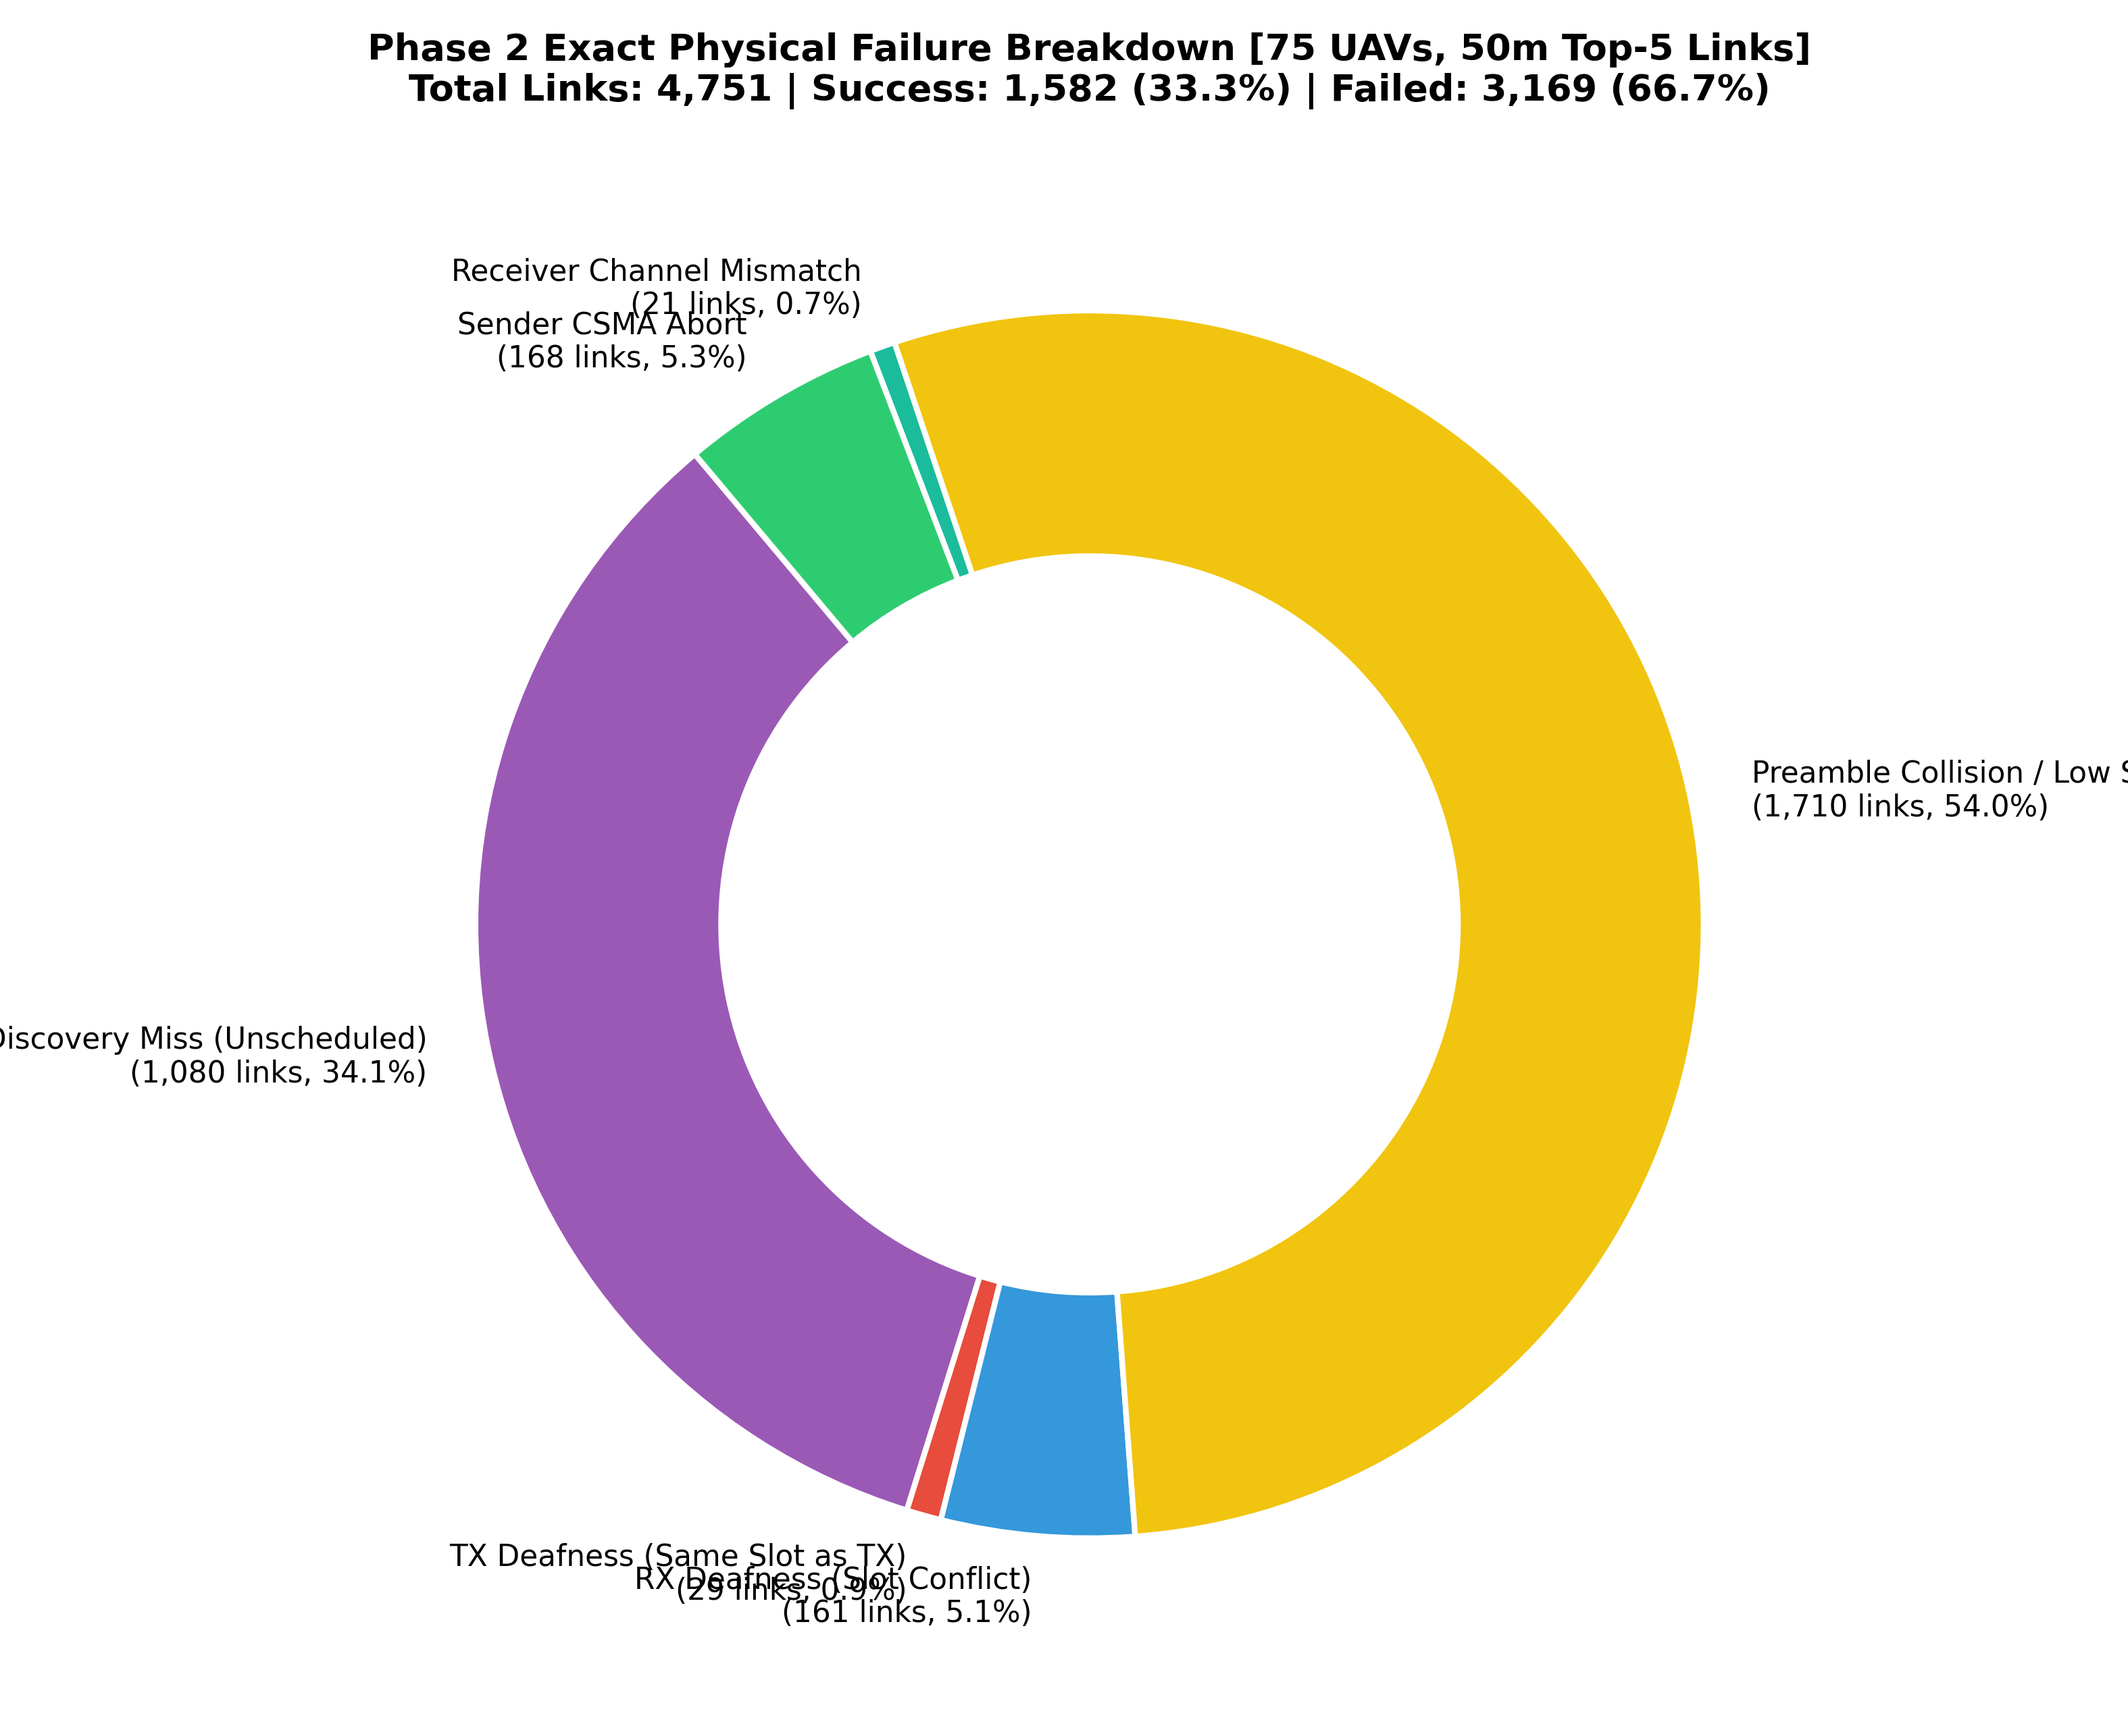
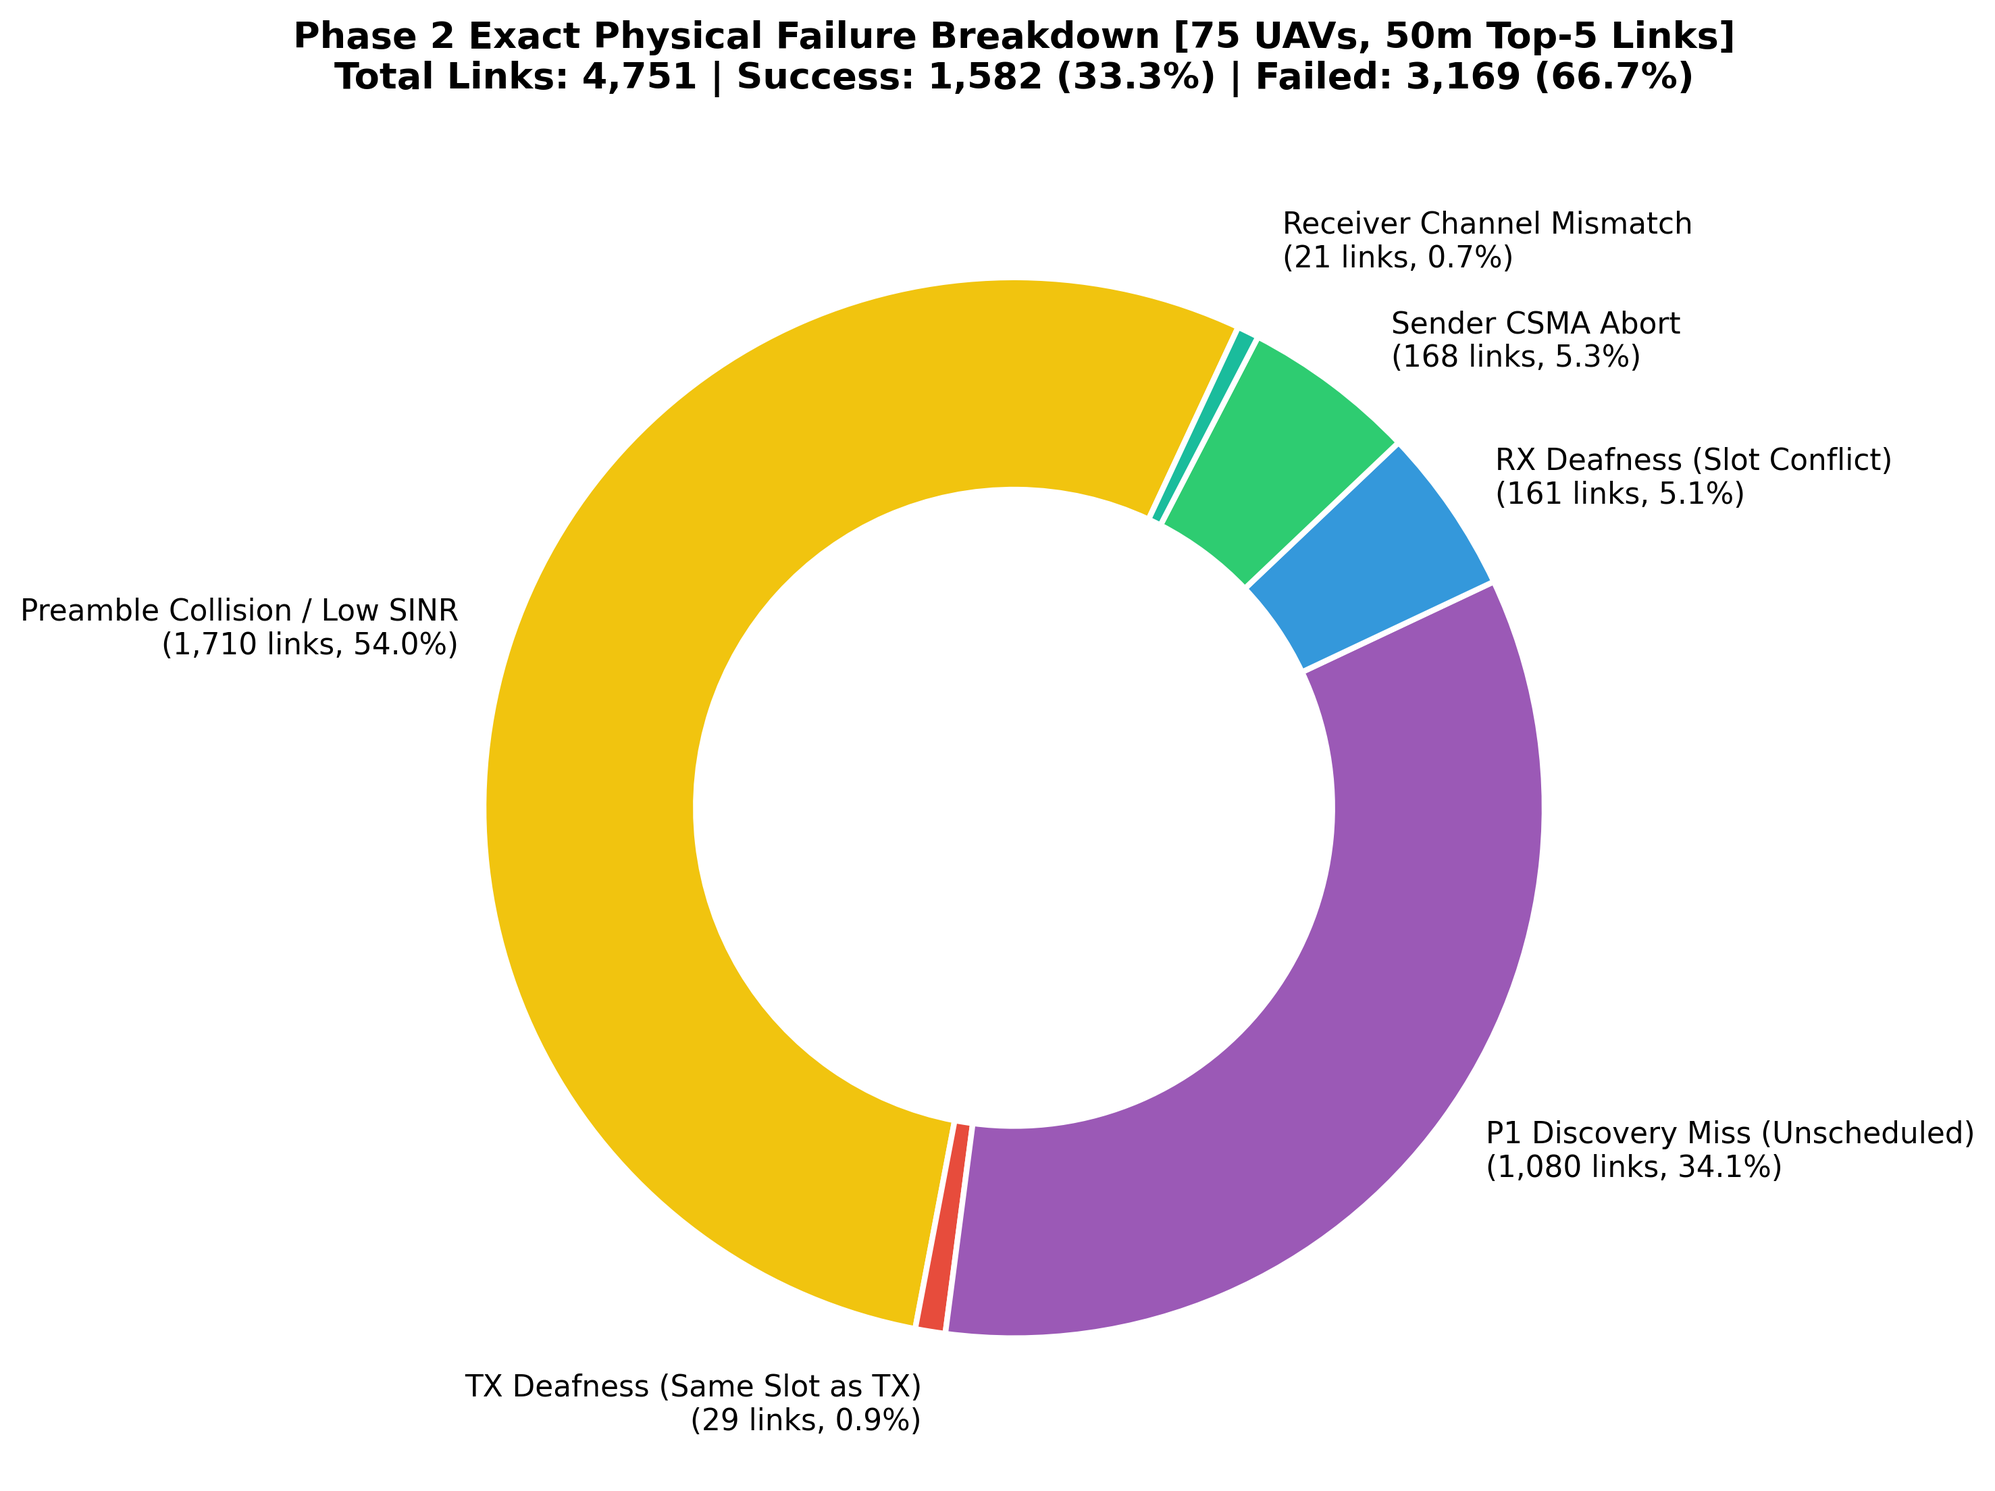
fix(p2): optimize donut label spacing and prevent overlap

Changed region(s): [[0.0, 0.125, 1.0, 0.9688], [0.1557, 0.0, 0.872, 0.0625], [0.9032, 0.2812, 0.9343, 0.3125]]

diff --git a/run_p2_exact_analysis.py b/run_p2_exact_analysis.py
@@ -127,14 +127,14 @@ try:
     # 1. Donut Chart for Failures (Exact Original Style with Direct Slice Labels)
     # Order structured so large slices insulate smaller slices, preventing text overlap
     labels_map = {
-        "P1_DISCOVERY_MISS": "P1 Discovery Miss (Unscheduled)",
-        "TX_DEAFNESS_SAME_SLOT": "TX Deafness (Same Slot as TX)",
-        "RX_DEAFNESS_SLOT_CONFLICT": "RX Deafness (Slot Conflict)",
-        "PAYLOAD_INTERFERENCE_DROP": "Payload Interference Corruption",
         "PREAMBLE_COLLISION_OR_LOW_SINR": "Preamble Collision / Low SINR",
+        "TX_DEAFNESS_SAME_SLOT": "TX Deafness (Same Slot as TX)",
+        "P1_DISCOVERY_MISS": "P1 Discovery Miss (Unscheduled)",
+        "RX_DEAFNESS_SLOT_CONFLICT": "RX Deafness (Slot Conflict)",
+        "SENDER_CSMA_ABORT": "Sender CSMA Abort",
         "RECEIVER_CHANNEL_MISMATCH": "Receiver Channel Mismatch",
-        "RADIO_TURNAROUND_BUSY": "Radio Turnaround / Transient Busy",
-        "SENDER_CSMA_ABORT": "Sender CSMA Abort"
+        "PAYLOAD_INTERFERENCE_DROP": "Payload Interference Corruption",
+        "RADIO_TURNAROUND_BUSY": "Radio Turnaround / Transient Busy"
     }
 
     colors_map = {
@@ -148,27 +148,53 @@ try:
         "SENDER_CSMA_ABORT": "#2ecc71"                  # Emerald Green (Sender CSMA abort)
     }
 
+    plot_order = [
+        "PREAMBLE_COLLISION_OR_LOW_SINR",
+        "TX_DEAFNESS_SAME_SLOT",
+        "P1_DISCOVERY_MISS",
+        "RX_DEAFNESS_SLOT_CONFLICT",
+        "SENDER_CSMA_ABORT",
+        "RECEIVER_CHANNEL_MISMATCH",
+        "PAYLOAD_INTERFERENCE_DROP",
+        "RADIO_TURNAROUND_BUSY"
+    ]
+
     plot_labels = []
     plot_sizes = []
     plot_colors = []
 
-    for r_key, r_name in labels_map.items():
+    for r_key in plot_order:
         cnt = fail_reasons.get(r_key, 0)
         if cnt > 0:
+            r_name = labels_map[r_key]
             pct = (cnt / total_fails) * 100.0 if total_fails > 0 else 0
             plot_labels.append(f"{r_name}\n({cnt:,} links, {pct:.1f}%)")
             plot_sizes.append(cnt)
             plot_colors.append(colors_map[r_key])
 
-    fig, ax = plt.subplots(figsize=(10.5, 8.5), subplot_kw=dict(aspect="equal"))
+    fig, ax = plt.subplots(figsize=(11, 8.5), subplot_kw=dict(aspect="equal"))
     wedges, texts = ax.pie(
         plot_sizes,
         labels=plot_labels,
         colors=plot_colors,
-        startangle=130,
+        startangle=65,
         wedgeprops=dict(width=0.4, edgecolor='white', linewidth=2),
         textprops=dict(fontsize=10.5)
     )
+
+    # Adjust text positions slightly to prevent text collision
+    for t in texts:
+        pos = list(t.get_position())
+        if 'Receiver Channel Mismatch' in t.get_text():
+            pos[1] += 0.08
+            pos[0] += 0.02
+            t.set_position(pos)
+        elif 'Sender CSMA Abort' in t.get_text():
+            pos[0] += 0.05
+            t.set_position(pos)
+        elif 'TX Deafness' in t.get_text():
+            pos[1] -= 0.04
+            t.set_position(pos)
 
     ax.set_title(f"Phase 2 Exact Physical Failure Breakdown [75 UAVs, 50m Top-5 Links]\n"
                  f"Total Links: {total_links:,} | Success: {success_links:,} ({(success_links/total_links)*100:.1f}%) | "
@@ -176,8 +202,7 @@ try:
                  fontsize=13, fontweight='bold', pad=20)
 
     donut_path = os.path.join(PROJECT_DIR, "p2_ground_truth_donut.png")
-    plt.tight_layout()
-    plt.savefig(donut_path, dpi=300)
+    plt.savefig(donut_path, dpi=300, bbox_inches='tight')
     plt.close()
     print(f"📈 Phase 2 Donut chart saved to: {donut_path}")
 
